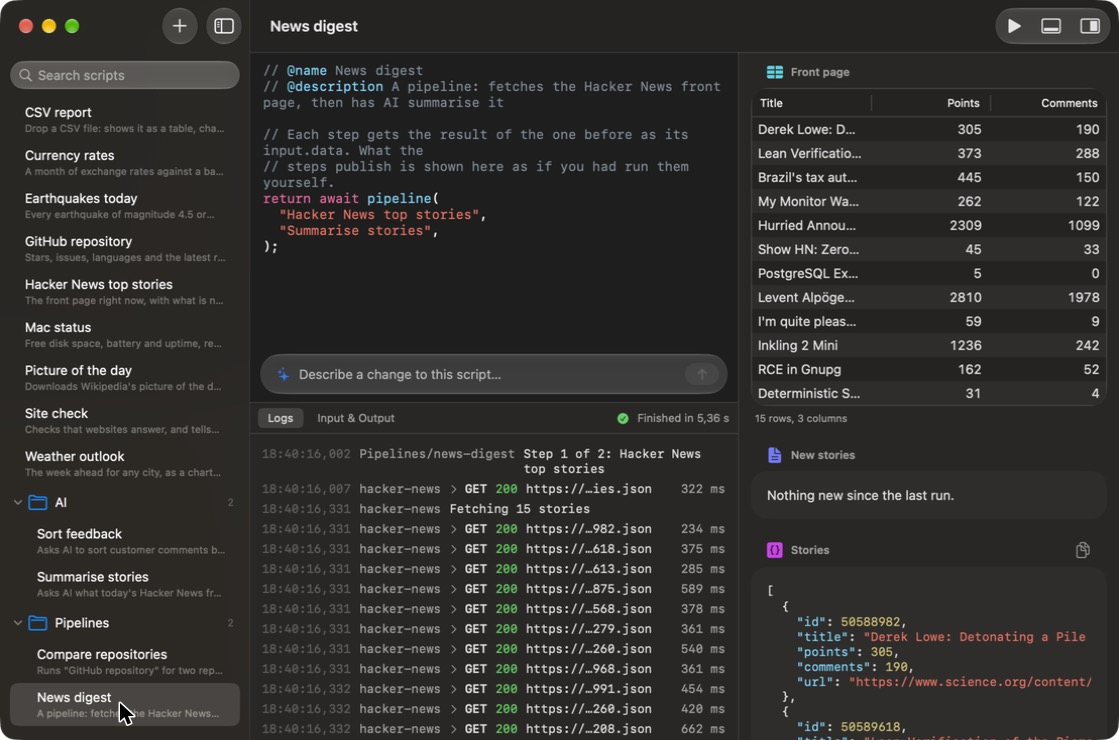
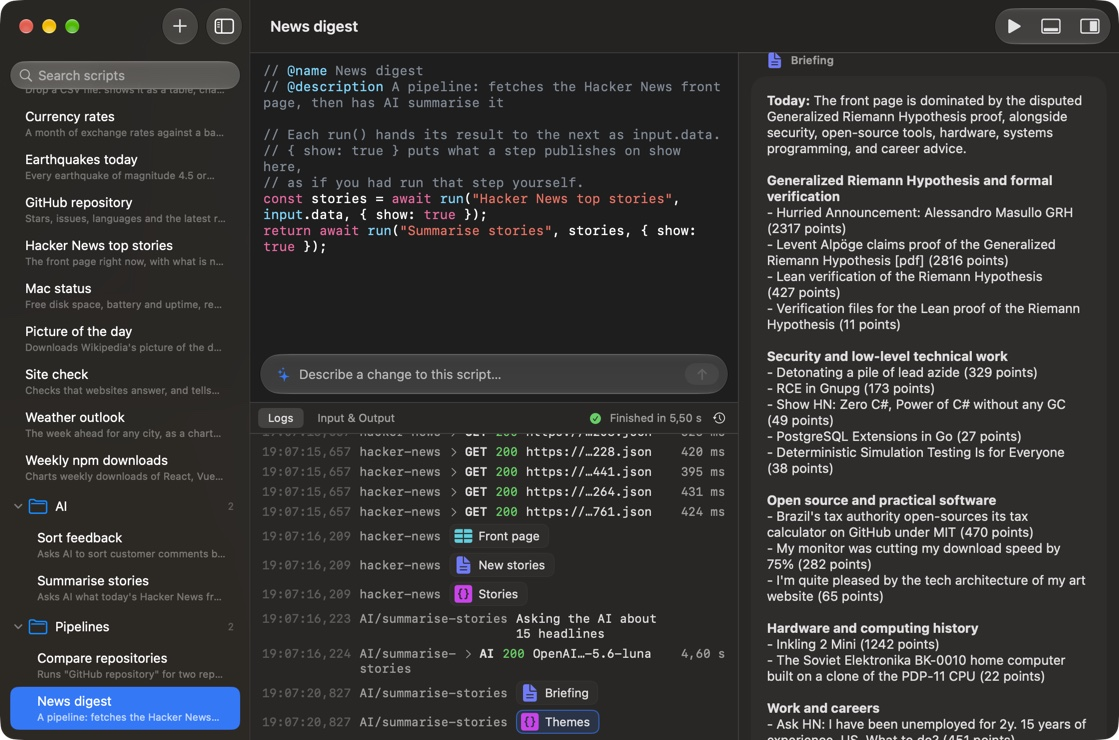
Replace pipeline() with run(name, data, { show: true })
pipeline() was run() in a loop plus one thing run() could not do: put
what the called script publishes on show. That is now an option of
run(), so a chain of scripts is ordinary code that can branch, loop or
run steps side by side. Only a script that is on show itself can put
another on show. New Pipeline writes one run() line per step.

diff --git a/RhinoCore/Tests/RhinoCoreTests/PipelineTests.swift b/RhinoCore/Tests/RhinoCoreTests/PipelineTests.swift
@@ -2,7 +2,8 @@ import Foundation
 import Testing
 @testable import RhinoCore
 
-/// `pipeline()`: scripts run one after another, each fed by the one before.
+/// Pipelines: scripts run one after another with `run()`, each fed by the
+/// one before, and `{ show: true }` to put what they publish on show.
 @Suite struct PipelineTests {
     static let steps = [
         "fetch": """
@@ -29,14 +30,20 @@ import Testing
         return (summary, recorder)
     }
 
-    @Test func eachStepGetsTheResultOfTheOneBefore() async throws {
-        let (summary, recorder) = await run(#"return await pipeline("fetch", "clean", "report");"#, data: #"{"since":"Monday"}"#)
+    static let chain = """
+    const fetched = await run("fetch", input.data, { show: true });
+    const paid = await run("clean", fetched, { show: true });
+    return await run("report", paid, { show: true });
+    """
+
+    @Test func eachStepGetsTheResultOfTheOneBeforeAndIsOnShow() async throws {
+        let (summary, recorder) = await run(Self.chain, data: #"{"since":"Monday"}"#)
 
         #expect(summary.error == nil)
         // The last step's result is the pipeline's.
         #expect(try json(summary.resultJSON) as? [String: Int] == ["count": 2])
         #expect(recorder.runs.map(\.script) == ["flow", "fetch", "clean", "report"])
-        #expect(recorder.logs == ["Step 1 of 3: fetch", "Step 2 of 3: clean", "Kept 2 paid orders", "Step 3 of 3: report"])
+        #expect(recorder.logs == ["Kept 2 paid orders"])
 
         // What the steps published is on show, each under the step that made it.
         let scriptOf = Dictionary(uniqueKeysWithValues: recorder.runs.map { ($0.id, $0.script) })
@@ -49,73 +56,81 @@ import Testing
         #expect((try json(first.json) as? [String: Any])?["asked"] as? [String: String] == ["since": "Monday"])
     }
 
-    @Test func aFunctionCanBeAStep() async throws {
+    @Test func aFailedStepStopsThePipelineAndSaysWhere() async throws {
         let (summary, recorder) = await run("""
-        return await pipeline(
-          "fetch",
-          function onlyUnpaid(data) { return data.orders.filter((order) => !order.paid); },
-          async (orders) => { await sleep(1); return orders.map((order) => order.id); },
-        );
+        output.log("starting");
+        const fetched = await run("fetch", null, { show: true });
+        await run("broken", fetched, { show: true });
+        return await run("report", fetched, { show: true });
         """)
-        #expect(summary.error == nil)
-        #expect(try json(summary.resultJSON) as? [Int] == [2])
-        #expect(recorder.logs == ["Step 1 of 3: fetch", "Step 2 of 3: onlyUnpaid", "Step 3 of 3: a function"])
 
-        // A list works as well as separate arguments, and a step that returns nothing hands on null.
-        let listed = await run(#"return await pipeline(["fetch", () => {}, (data) => data === null]);"#)
-        #expect(try json(listed.summary.resultJSON) as? Bool == true)
-    }
-
-    @Test func aFailedStepStopsThePipelineAndSaysWhichOne() async throws {
-        let (summary, recorder) = await run(#"output.log("starting");\#nreturn await pipeline("fetch", "broken", "report");"#)
-
-        #expect(summary.error?.message == "Step 2 of 3, “broken”, failed: no data today")
-        // The place is where it really went wrong: in the step, not in the pipeline.
+        // The error is the step's own, at the place where it really went wrong.
+        #expect(summary.error?.message == "no data today")
         #expect(summary.error?.script == "broken")
         #expect(summary.error?.line == 2)
         #expect(recorder.runs.map(\.script) == ["flow", "fetch", "broken"])
-        #expect(recorder.logs == ["starting", "Step 1 of 3: fetch", "Step 2 of 3: broken", "about to fail"])
-
-        let glue = await run("return await pipeline('fetch',\n  () => { throw new Error('bad glue'); });")
-        #expect(glue.summary.error?.message == "Step 2 of 2, “a function”, failed: bad glue")
-        #expect(glue.summary.error?.script == "flow")
-        let unknown = await run(#"return await pipeline("fetch", "nowhere");"#)
-        #expect(unknown.summary.error?.message.hasPrefix("Step 2 of 2, “nowhere”, failed:") == true)
+        #expect(recorder.logs == ["starting", "about to fail"])
     }
 
-    @Test func refusesNonsense() async throws {
-        #expect(await run("await pipeline();").summary.error?.message.contains("needs at least one step") == true)
-        #expect(await run("await pipeline('fetch', 42);").summary.error?.message == "pipeline(): step 2 is neither a script's name nor a function.")
+    @Test func aPlainRunKeepsItsOutputsToItself() async throws {
+        for call in [#"run("fetch")"#, #"run("fetch", null, { show: false })"#, #"run("fetch", null, {})"#, #"run("fetch", null, { show: "yes" })"#] {
+            let (summary, recorder) = await run("const data = await \(call); output.json(data.orders.length);")
+            #expect(summary.error == nil)
+            // Only what the calling script published is shown; `run()` is a function call.
+            #expect(recorder.outputs.count == 1)
+            #expect(try json(recorder.outputs[0].json) as? Int == 3)
+        }
     }
 
-    @Test func aPlainRunStillKeepsItsOutputsToItself() async throws {
-        let (summary, recorder) = await run(#"const data = await run("fetch"); output.json(data.orders.length);"#)
+    @Test func onlyAScriptOnShowCanPutAnotherOnShow() async throws {
+        // "flow" runs "quiet" without showing it, so what "quiet" puts on
+        // show stays out of sight too.
+        let (engine, _) = makeEngine(Self.steps.merging([
+            "flow": #"output.json(await run("quiet"));"#,
+            "quiet": #"const fetched = await run("fetch", null, { show: true }); output.json(fetched.orders.length);"#,
+        ]) { $1 })
+        let recorder = Recorder()
+        let summary = await engine.run("flow", events: recorder.record)
         #expect(summary.error == nil)
-        // Only what the calling script published is shown; `run()` is a function call.
+        #expect(recorder.runs.map(\.script) == ["flow", "quiet", "fetch"])
         #expect(recorder.outputs.count == 1)
         #expect(try json(recorder.outputs[0].json) as? Int == 3)
     }
 
-    @Test func writesAPipelineScript() throws {
+    @Test func thereIsNoSeparatePipelineFunction() async throws {
+        let (summary, _) = await run(#"return typeof pipeline;"#)
+        #expect(try json(summary.resultJSON) as? String == "undefined")
+    }
+
+    @Test func writesAPipelineScriptThatRuns() async throws {
         let source = ScriptStore.pipeline(name: "Weekly report", steps: ["Fetch orders", "Clean \"all\" orders", "reports/build"])
         #expect(source == """
         // @name Weekly report
         // @description Runs Fetch orders, Clean "all" orders, then reports/build; each step gets the result of the one before
 
-        return await pipeline(
-          "Fetch orders",
-          "Clean \\"all\\" orders",
-          "reports/build",
-        );
+        // { show: true } puts what a step publishes on show here,
+        // as if you had run that step yourself.
+        let data = input.data;
+        data = await run("Fetch orders", data, { show: true });
+        data = await run("Clean \\"all\\" orders", data, { show: true });
+        data = await run("reports/build", data, { show: true });
+        return data;
 
         """)
         #expect(ScriptCompiler.syntaxProblem(in: source) == nil)
         #expect(ScriptHeader.parse(source)["name"] == "Weekly report")
         #expect(Reindenter.reindent(source) == source)
+        #expect(ScriptFootprint(of: source).items == [.runs("Fetch orders"), .runs("Clean \\\"all\\\" orders"), .runs("reports/build")])
 
         let store = ScriptStore(directory: FileManager.default.temporaryDirectory.appending(path: "rhino-store-\(UUID().uuidString)"))
         let made = try store.create(named: "Weekly report", in: "flows", source: source)
         #expect(made.id == "flows/weekly-report")
         #expect(try store.source(of: made.id) == source)
+
+        // What the sheet writes does what the sheet says.
+        let (summary, recorder) = await run(ScriptStore.pipeline(name: "Flow", steps: ["fetch", "clean", "report"]))
+        #expect(summary.error == nil)
+        #expect(try json(summary.resultJSON) as? [String: Int] == ["count": 2])
+        #expect(recorder.savedFiles.map(\.name) == ["Report"])
     }
 }

diff --git a/RhinoCore/Sources/RhinoCore/Resources/prelude.js b/RhinoCore/Sources/RhinoCore/Resources/prelude.js
@@ -982,42 +982,10 @@
             return result;
           });
         },
-        run: function (name, input) { return exec(String(name), input, runId, depth + 1, files); },
-        // Scripts one after another, each handed the result of the one
-        // before. A function in the list is a step too, for glue in between.
-        pipeline: function () {
-          const steps = Array.prototype.slice.call(arguments.length === 1 && Array.isArray(arguments[0]) ? arguments[0] : arguments);
-          if (steps.length === 0) {
-            throw new Error("pipeline() needs at least one step, for example pipeline(\"Fetch orders\", \"Build report\").");
-          }
-          steps.forEach(function (step, index) {
-            if (typeof step !== "string" && typeof step !== "function") {
-              throw new Error("pipeline(): step " + (index + 1) + " is neither a script's name nor a function.");
-            }
-          });
-          const site = new Error();
-          return (async function () {
-            // The first step gets what the pipeline itself was handed.
-            let value = data === undefined ? null : data;
-            for (let index = 0; index < steps.length; index++) {
-              const step = steps[index];
-              const label = typeof step === "string" ? step : step.name || "a function";
-              const place = "Step " + (index + 1) + " of " + steps.length;
-              host.log(runId, "info", place + ": " + label);
-              try {
-                value = typeof step === "string"
-                  ? await exec(step, value, runId, depth + 1, files, true)
-                  : await step(value);
-              } catch (error) {
-                // The same error, saying which step it was; its place in the
-                // code stays the place where it really happened.
-                const reason = error && error.message ? error.message : String(error);
-                throw failure(error && error.stack ? error : site, place + ", “" + label + "”, failed: " + reason);
-              }
-              if (value === undefined) value = null;
-            }
-            return value;
-          })();
+        // `{ show: true }` puts what the other script publishes on show in
+        // this run; without it, that stays the other script's own business.
+        run: function (name, input, options) {
+          return exec(String(name), input, runId, depth + 1, files, !!(options && options.show === true));
         },
       },
       // What the script produced: the value given to output.json(), or failing
@@ -1028,8 +996,9 @@
 
   // -------------------------------------------------------------- execution
 
-  // `publishes` is for the steps of a pipeline: what they publish is shown,
-  // as if the user had run them, instead of staying inside the call.
+  // `publishes` is `run(name, data, { show: true })`: what the script
+  // publishes is shown, as if the user had run it, instead of staying inside
+  // the call.
   async function exec(name, data, parentId, depth, files, publishes) {
     if (depth > 32) {
       throw new Error('run("' + name + '") is nested more than 32 levels deep. Is a script calling itself?');

diff --git a/RhinoCore/Sources/RhinoCore/AI/ScriptWriter.swift b/RhinoCore/Sources/RhinoCore/AI/ScriptWriter.swift
@@ -146,7 +146,7 @@ public struct ScriptWriter: Sendable {
         - A script that should react only to what is new (new rows, new issues, a changed price) remembers what it has seen with memory.get() and memory.set().
         - When a step needs judgement rather than rules (summarising, classifying, pulling facts out of messy text, drafting), use ai.ask(). Pass `returns` whenever the answer is used by code, so it comes back as data and not prose. Put many items into one question instead of asking once per item: every call takes seconds and costs the person money.
         - To build on what another script already produced, read it with input.from("Name") instead of running that script again: `await input.from("Name").output("Label")`, `.file("Label")` or `.result()` fail with a clear message when that script has not run yet. Use run("Name") only when the other script has to run now.
-        - When asked to run several existing scripts in order, write a pipeline: `return await pipeline("First", "Second", "Third");`. Each step gets the previous step's result as input.data. Do not copy the other scripts' code into the new one.
+        - When asked to run several existing scripts in order, chain run() calls and hand each result to the next: `const orders = await run("Fetch orders", input.data, { show: true }); return await run("Build report", orders, { show: true });`. `{ show: true }` puts what that script publishes on show in this run. Do not copy the other scripts' code into the new one.
         - shell("command") runs a command on the person's Mac. Use it only when the job cannot be done with the rest of the API (git, a tool they named, something only a command line program does), never to do what read(), write() or get() can do, and never with text from a file, a web page or an AI answer put into the command unchecked.
         - Say what is happening with output.log() at the steps that matter, in words a non-programmer follows.
         - When the person should hear about something without watching (a scheduled check found something, a long job is done), call notify("Title", "One line of detail") once. Do not notify for routine progress, or when there is nothing new to report.

diff --git a/RhinoCore/Sources/RhinoCore/Resources/globals.d.ts b/RhinoCore/Sources/RhinoCore/Resources/globals.d.ts
@@ -648,26 +648,20 @@ declare function shell(
  * alone works while no other script shares it. `data` shows
  * up in that script as `input.data`; it also sees the same dropped files.
  * If the other script fails, this call throws.
+ *
+ * What the other script publishes (tables, charts, files) stays with it,
+ * like a function's local work. Pass `{ show: true }` to put it on show in
+ * this run, as if the user had run that script themselves. That makes a
+ * pipeline: scripts one after another, each handed the result of the one
+ * before, with every step's output on screen:
+ *
+ *   const orders = await run("Fetch orders", input.data, { show: true });
+ *   const paid = orders.filter((order) => order.paid);
+ *   return await run("Build report", paid, { show: true });
+ *
+ * To hand a file to the next script, put its path in the result.
  */
-declare function run(name: string, data?: any): Promise<any>;
-
-/**
- * Run scripts one after another, each handed the result of the one before
- * as its `input.data`. The first gets what this script was handed, and the
- * last one's result is returned, so a pipeline is a script of one line:
- *
- *   return await pipeline("Fetch orders", "Clean orders", "Build report");
- *
- * A function in the list is a step too, for a little glue in between:
- *
- *   return await pipeline("Fetch orders", (orders) => orders.filter((o) => o.paid), "Build report");
- *
- * What the steps publish (tables, charts, files) is shown as if you had run
- * them yourself, and the log says which step is running. If a step fails,
- * the pipeline stops and the error says which one. Steps are named as for
- * `run()`. To hand a file to the next step, put its path in the result.
- */
-declare function pipeline(...steps: (string | ((data: any) => any))[]): Promise<any>;
+declare function run(name: string, data?: any, options?: { show?: boolean }): Promise<any>;
 
 declare function sleep(ms: number): Promise<void>;
 

diff --git a/RhinoCore/Sources/RhinoCore/Scripts/ScriptStore.swift b/RhinoCore/Sources/RhinoCore/Scripts/ScriptStore.swift
@@ -207,8 +207,9 @@ public struct ScriptStore: ScriptProvider {
         return slug.isEmpty ? "script" : slug
     }
 
-    /// The source of a pipeline: a script that runs others one after another.
-    /// `steps` are the scripts' names, as `run()` would take them.
+    /// The source of a pipeline: a script that runs others one after
+    /// another with `run()`, each handed the result of the one before.
+    /// `steps` are the scripts' names, as `run()` takes them.
     public static func pipeline(name: String, steps: [String]) -> String {
         func quoted(_ text: String) -> String {
             let data = (try? JSONSerialization.data(withJSONObject: text, options: [.fragmentsAllowed, .withoutEscapingSlashes])) ?? Data("\"\"".utf8)
@@ -219,9 +220,11 @@ public struct ScriptStore: ScriptProvider {
         // @name \(name)
         // @description Runs \(order); each step gets the result of the one before
 
-        return await pipeline(
-        \(steps.map { "  \(quoted($0))," }.joined(separator: "\n"))
-        );
+        // { show: true } puts what a step publishes on show here,
+        // as if you had run that step yourself.
+        let data = input.data;
+        \(steps.map { "data = await run(\(quoted($0)), data, { show: true });" }.joined(separator: "\n"))
+        return data;
 
         """
     }

diff --git a/RhinoCore/Sources/RhinoCore/Runtime/Execution.swift b/RhinoCore/Sources/RhinoCore/Runtime/Execution.swift
@@ -57,7 +57,8 @@ actor Execution {
     var secretPermissions: [UUID: SecretRequest] = [:]
     /// The secrets this run has handled, kept out of what it records.
     var masker = SecretMasker()
-    /// Chained runs whose published values are shown: the steps of a pipeline.
+    /// Chained runs whose published values are shown: those started with
+    /// `run(name, data, { show: true })`.
     var publishingRuns: Set<String> = []
     /// Questions asked with type "secret": their answers are secrets too.
     var secretQuestions: Set<UUID> = []
@@ -318,7 +319,11 @@ actor Execution {
     func beginRun(name: String, parentID: String?, publishes: Bool) -> String {
         let id = UUID().uuidString
         if parentID == nil { rootID = id }
-        if publishes { publishingRuns.insert(id) }
+        // Only a script that is on show itself can put another on show: one
+        // run quietly by another does not get to fill the user's screen.
+        if publishes, let parentID, parentID == rootID || publishingRuns.contains(parentID) {
+            publishingRuns.insert(id)
+        }
         let script = provider.script(named: name)?.id ?? name
         scriptOfRun[id] = script
         emit(.runStarted(RunInfo(id: id, script: script, parentID: parentID, startedAt: Date())))

diff --git a/RhinoCore/Sources/RhinoCore/Scripts/ScriptFootprint.swift b/RhinoCore/Sources/RhinoCore/Scripts/ScriptFootprint.swift
@@ -166,19 +166,6 @@ public struct ScriptFootprint: Hashable, Sendable {
         for call in calls("run") {
             found.insert(.runs(call.literal ?? "one it names while running"))
         }
-        if !calls("pipeline").isEmpty {
-            // Every text in a pipeline's list is a script it runs.
-            if let pattern = try? NSRegularExpression(pattern: "(?<![\\w$.])pipeline\\s*\\(([^;]*?)\\)\\s*;?") {
-                let whole = NSRange(location: 0, length: (readableText as NSString).length)
-                for match in pattern.matches(in: codeText, range: whole) {
-                    let arguments = match.range(at: 1)
-                    for string in strings where string.lowerBound >= arguments.location && string.upperBound <= NSMaxRange(arguments) {
-                        let name = (readableText as NSString).substring(with: NSRange(location: string.lowerBound + 1, length: max(0, string.count - 2)))
-                        found.insert(.runs(name))
-                    }
-                }
-            }
-        }
         if !calls("eval|Function|new\\s+Function").isEmpty { found.insert(.buildsCode) }
 
         items = found

diff --git a/App/Views/PipelineSheet.swift b/App/Views/PipelineSheet.swift
@@ -2,7 +2,7 @@ import RhinoCore
 import SwiftUI
 
 /// Putting a pipeline together: a name, and the scripts to run in order.
-/// What it makes is an ordinary script of one `pipeline(...)` call, which
+/// What it makes is an ordinary script of `run()` calls, one per step, which
 /// can be edited, scheduled and versioned like any other.
 struct PipelineSheet: View {
     private struct Step: Identifiable {
@@ -50,7 +50,7 @@ struct PipelineSheet: View {
                 } header: {
                     Text("Steps")
                 } footer: {
-                    Text("Each step gets the result of the one before as its input.data. If a step fails, the pipeline stops there and says which one.")
+                    Text("Each step gets the result of the one before as its input.data. If a step fails, the pipeline stops there.")
                         .foregroundStyle(.secondary)
                 }
             }

diff --git a/RhinoCore/Sources/RhinoCore/Resources/Examples/Pipelines/news-digest.js b/RhinoCore/Sources/RhinoCore/Resources/Examples/Pipelines/news-digest.js
@@ -1,10 +1,8 @@
 // @name News digest
 // @description A pipeline: fetches the Hacker News front page, then has AI summarise it
 
-// Each step gets the result of the one before as its
-// input.data. What the steps publish is shown here as if
-// you had run them yourself.
-return await pipeline(
-  "Hacker News top stories",
-  "Summarise stories",
-);
+// Each run() hands its result to the next as input.data.
+// { show: true } puts what a step publishes on show here,
+// as if you had run that step yourself.
+const stories = await run("Hacker News top stories", input.data, { show: true });
+return await run("Summarise stories", stories, { show: true });

diff --git a/RhinoCore/Sources/RhinoCore/Runtime/Execution+Output.swift b/RhinoCore/Sources/RhinoCore/Runtime/Execution+Output.swift
@@ -10,7 +10,7 @@ extension Execution {
     /// `run()`, `output.json()` is what it hands back to its caller.
     func addOutput(runID: String, kind: String, json: String) -> String {
         // A script run by another keeps what it publishes to itself, like a
-        // function's local work, unless it is a step of a pipeline.
+        // function's local work, unless its caller asked for it to be shown.
         guard runID == rootID || publishingRuns.contains(runID), let kind = OutputValue.Kind(rawValue: kind) else { return "" }
         var json = json
         // An image named by a relative path lives in the run's output folder,

diff --git a/RhinoCore/Tests/RhinoCoreTests/SafetyTests.swift b/RhinoCore/Tests/RhinoCoreTests/SafetyTests.swift
@@ -63,7 +63,7 @@ import Testing
         await shell(`rm -rf ${folder}`);
         await http.request("DELETE", url);
         const text = await read("~/notes.txt");
-        return await pipeline("Fetch orders", clean, "Build report");
+        return await run("Build report", await run("Fetch orders"), { show: true });
         """)
         #expect(footprint.items == [
             .anyHost, .writesAnywhere, .anyCommand, .sends, .reads, .runs("Fetch orders"), .runs("Build report"),

diff --git a/RhinoCore/Sources/RhinoCore/Scripts/ScriptCompiler.swift b/RhinoCore/Sources/RhinoCore/Scripts/ScriptCompiler.swift
@@ -18,7 +18,7 @@ public enum ScriptCompiler {
         "input", "output", "secrets", "memory", "ai",
         "get", "post", "put", "patch", "del", "http",
         "download", "upload", "read", "write", "file", "csv",
-        "console", "sleep", "notify", "shell", "run", "pipeline",
+        "console", "sleep", "notify", "shell", "run",
     ]
 
     /// Returns an expression that evaluates to `function (api) -> Promise<returned value>`.
